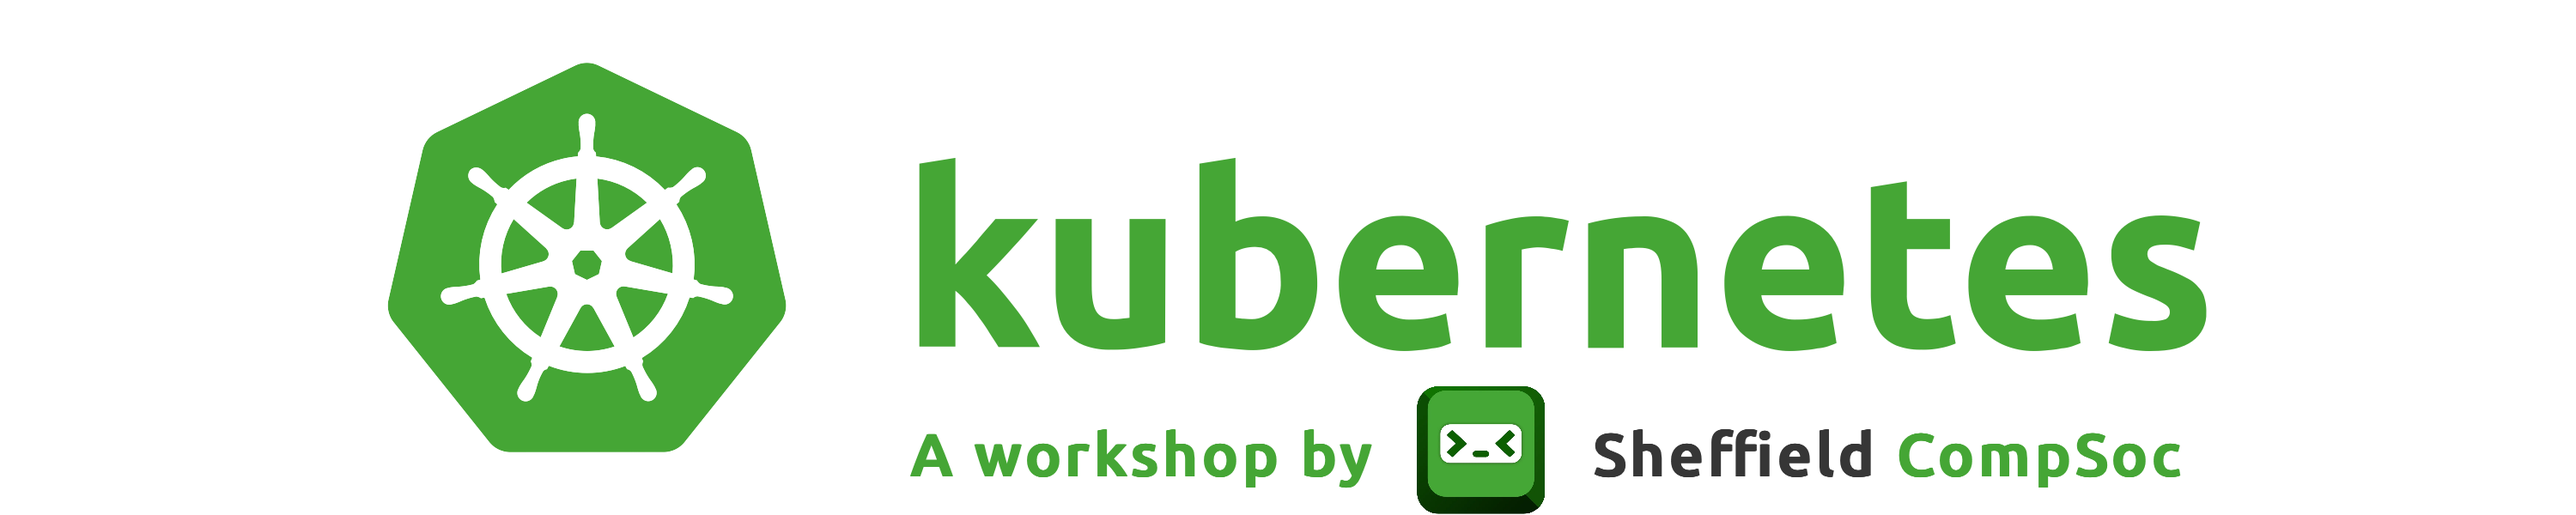
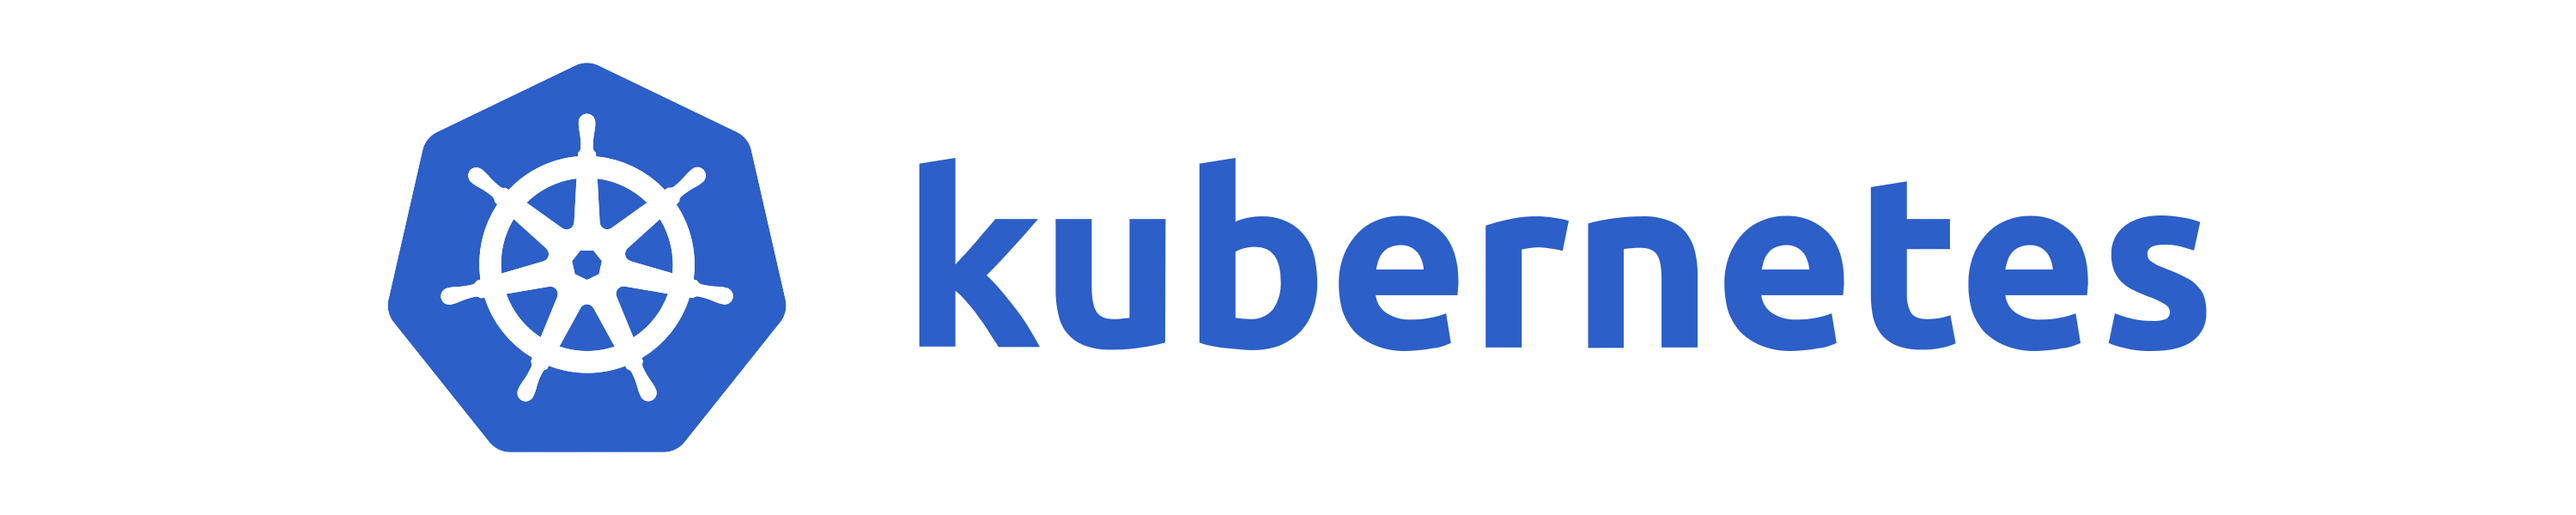
Replace wordmark that may or may not violate Linux Foundation's brand guidelines

Changed region(s): [[0.341, 0.3, 0.868, 0.69], [0.124, 0.12, 0.31, 0.9], [0.341, 0.75, 0.868, 1.0]]

diff --git a/README.md b/README.md
@@ -2,7 +2,7 @@
 
 # CompSoc Kubernetes Workshop
 
-Hello and welcome to the Kubernetes Workshop practical session! Here you'll learn how to create a cluster and deploy Pods to it. This README will be the main guide for students on what to do, but please feel free to ask the demonstrator if you have any questions.
+Hello and welcome to the Kubernetes Workshop practical session! Here you'll learn how to create a cluster and deploy Pods to it. This README will be the main guide for attendees on what to do, but please feel free to ask the demonstrator if you have any questions.
 
 ## Resources
 
